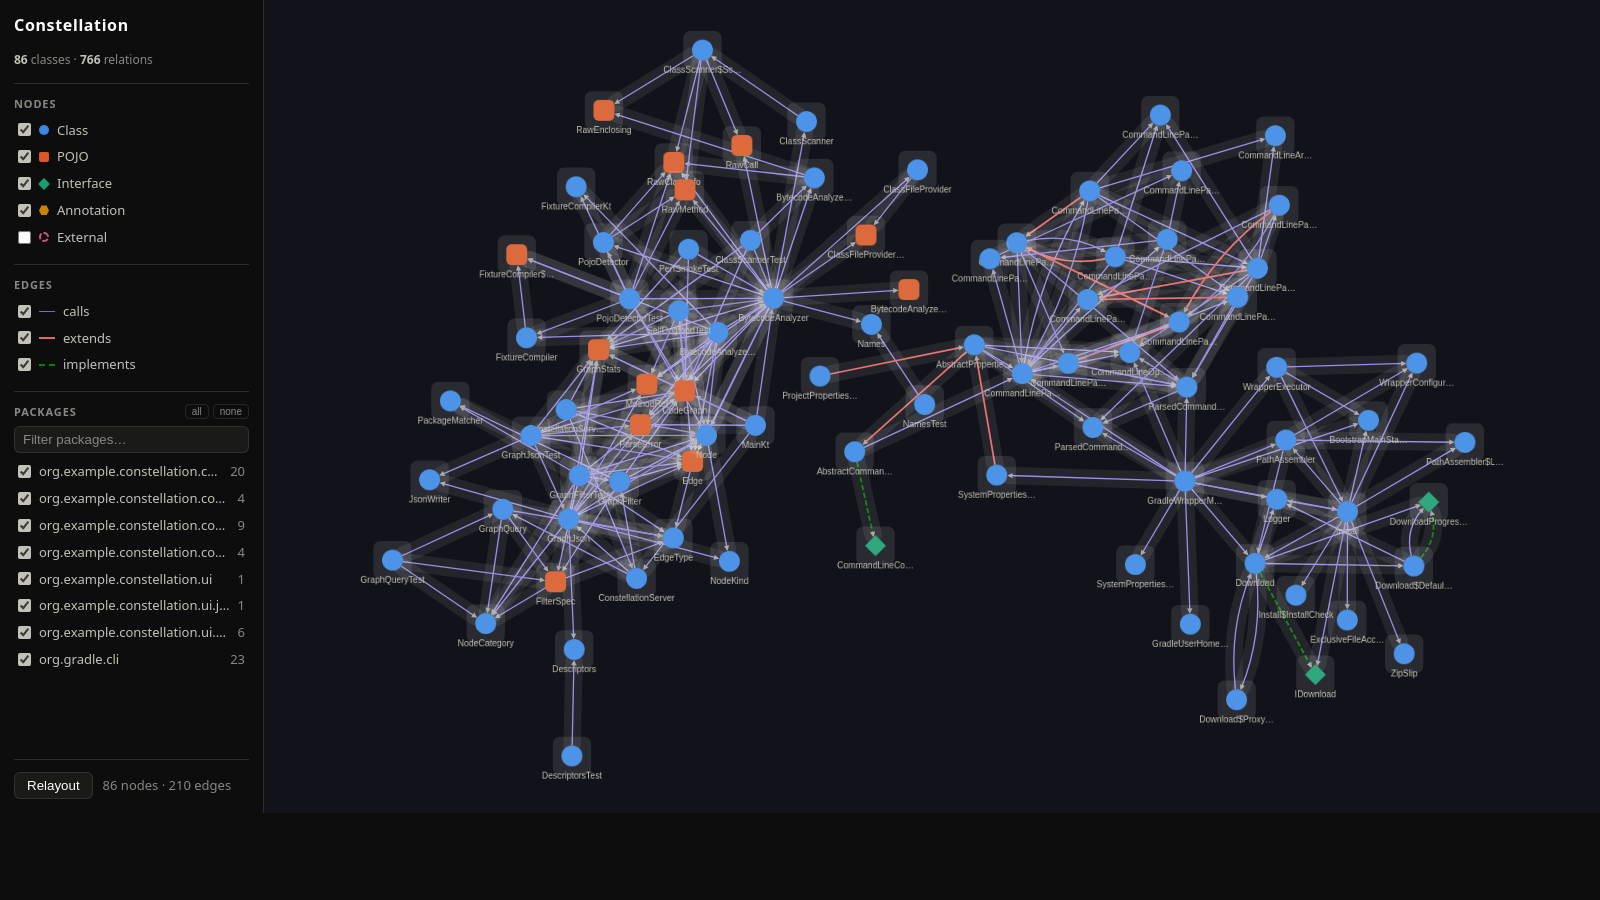
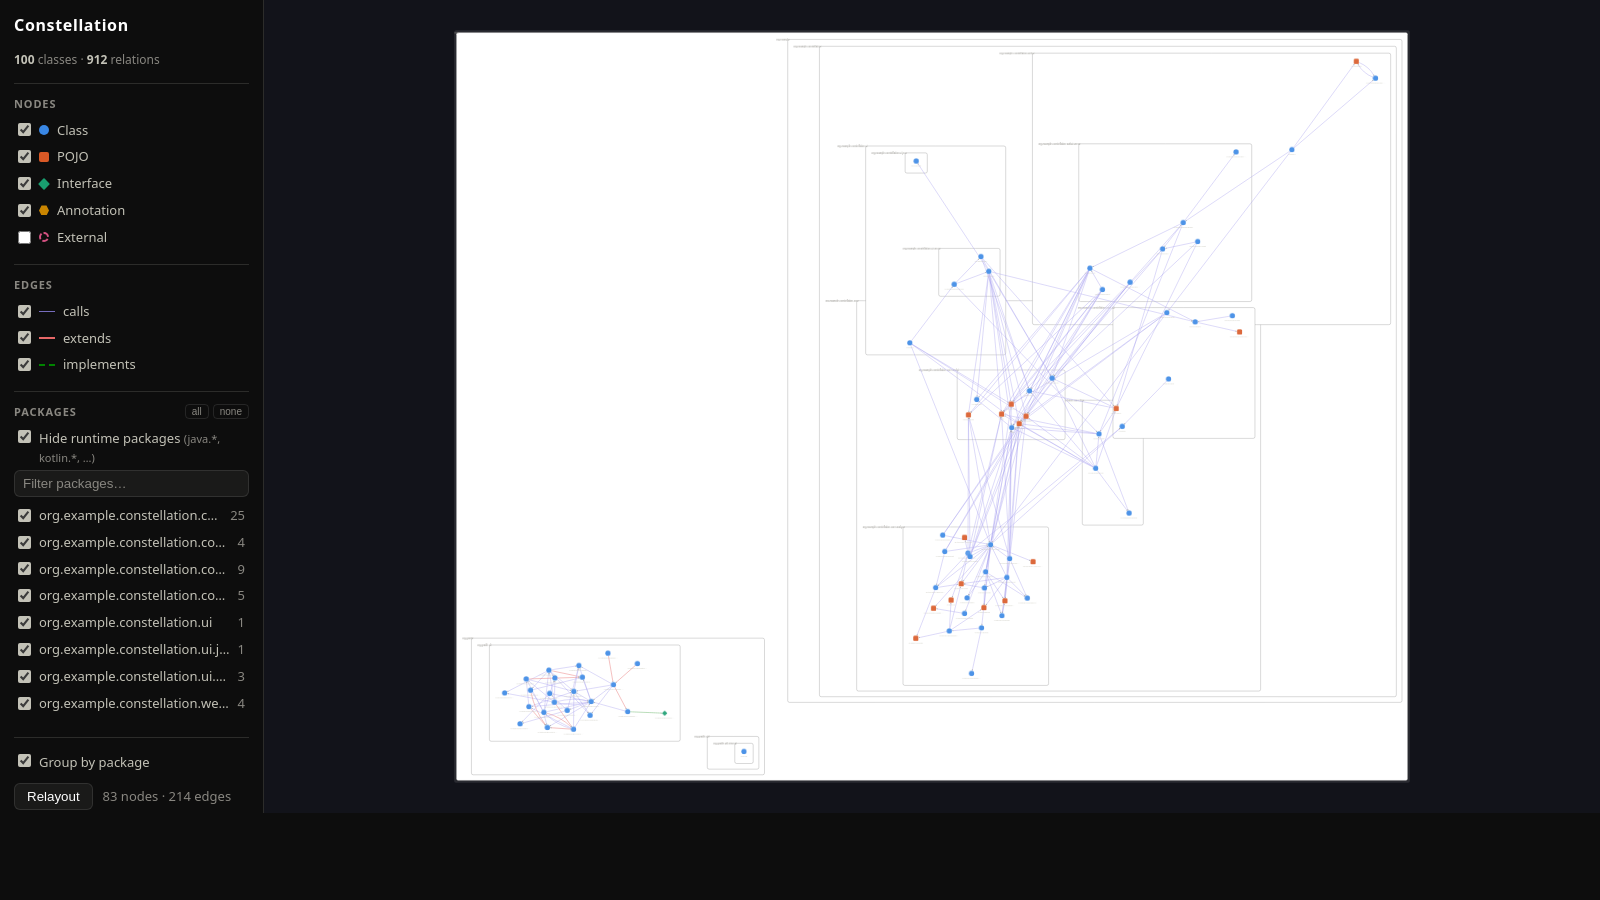
docs: README и скриншот под новые фичи и раскладку modules/

diff --git a/README.md b/README.md
@@ -54,29 +54,37 @@ constellation <путь>... [--port=N] [--no-browser]
 - `путь` — `.class`-файл, `.jar`/`.zip` или директория (обход рекурсивный,
   вложенные jar включаются). Можно передать корень проекта — Constellation сама
   найдёт всё, что скомпилировано. Дубликаты FQN: побеждает первый встреченный.
-- `--port=N` — порт сервера (по умолчанию случайный свободный)
+- `--port=N` — порт сервера (по умолчанию 8080; `0` — случайный свободный)
 - `--no-browser` — не открывать браузер, только напечатать URL
 
 Сервер слушает только `127.0.0.1`.
 
-## Фильтры
+## Фильтры и группировка
 
 Фильтрация выполняется на сервере ядром (`GraphFilter`), UI только задаёт
 конфигурацию:
 
 - **категории вершин** — включая отдельный переключатель POJO и External;
 - **типы рёбер**;
-- **пакеты** — выбор пакета включает и все его подпакеты.
+- **пакеты** — выбор пакета включает и все его подпакеты;
+- **скрытие runtime-пакетов** — `java.*`, `kotlin.*` и прочая стандартная
+  библиотека не засоряет граф (переключатель, включён по умолчанию);
+- **группировка по пакетам** — вершины вложены в контейнеры-пакеты,
+  подпакеты — в контейнеры родительских пакетов (включена по умолчанию).
 
-API: `GET /api/graph?kinds=CLASS,POJO&edges=CALL&pkgs=com.foo`,
+Для каждого класса определяется **модуль** (по пути `…/<module>/build/classes/…`
+или имени jar) — виден в панели деталей выбранной вершины; связи между
+модулями видны как рёбра между контейнерами разных пакетов.
+
+API: `GET /api/graph?kinds=CLASS,POJO&edges=CALL&pkgs=com.foo&xpkgs=java.*`,
 `GET /api/meta` — счётчики для панели.
 
 ## Архитектура
 
 | Модуль | Ответственность |
 |---|---|
-| `core` | ASM-сканер классов, POJO-эвристика, модель графа, движок фильтров. Не знает про UI и HTTP |
-| `webui` | встраиваемый HTTP-сервер (JDK `HttpServer`), JSON-API, веб-страница с cytoscape.js (вендорена в `webui/src/main/resources/vendor/`, без CDN) |
+| `modules/core` | ASM-сканер классов, POJO-эвристика, модель графа, движок фильтров. Не знает про UI и HTTP |
+| `modules/webui` | встраиваемый HTTP-сервер (JDK `HttpServer`), JSON-API, веб-страница с cytoscape.js (вендорена в `modules/webui/src/main/resources/vendor/`, без CDN) |
 
 Полезное внутри core:
 - `BytecodeAnalyzer(paths).analyze(): CodeGraph` — точка входа анализа;
@@ -107,5 +115,5 @@ POJO-эвристика, фильтры, JSON/API, смок сервера, self
 ## Сторонние библиотеки
 
 cytoscape.js, cytoscape-fcose, cose-base, layout-base — вендорены в
-`webui/src/main/resources/vendor/` (все MIT, версии и порядок подключения — в
+`modules/webui/src/main/resources/vendor/` (все MIT, версии и порядок подключения — в
 `vendor/README.md`). Kotlin и ASM тянутся через Gradle.

diff --git a/TODO.MD b/TODO.MD
@@ -1,6 +1,12 @@
 - [x] Добавить readme
 - [x] Переименовать ui в webui
 - [ ] Добавить нативный gui
+- [x] Сделать фильтр для stdlib, чтобы не загрязнять граф классами типа Int, Thread
+- [x] Сложить модули в папку modules
+- [x] Высвечивать пакеты на графе, как непересекающиеся контейнеры для нод и других контейнеров (если речь о подпакетах)
+- [x] Не увидел связей между модулями, их тоже бы хотелось
+      (рёбра webui→core в графе были; теперь видны наглядно: контейнеры пакетов +
+      модуль класса в панели деталей; проверено на догфуде — 12 кросс-модульных рёбер)
 
 ## Из сессии 2026-10-14 (визуальная проверка догфуда)
 - [ ] Ручная проверка в браузере: headless-скриншот прошёл (граф заполняет канвас,
